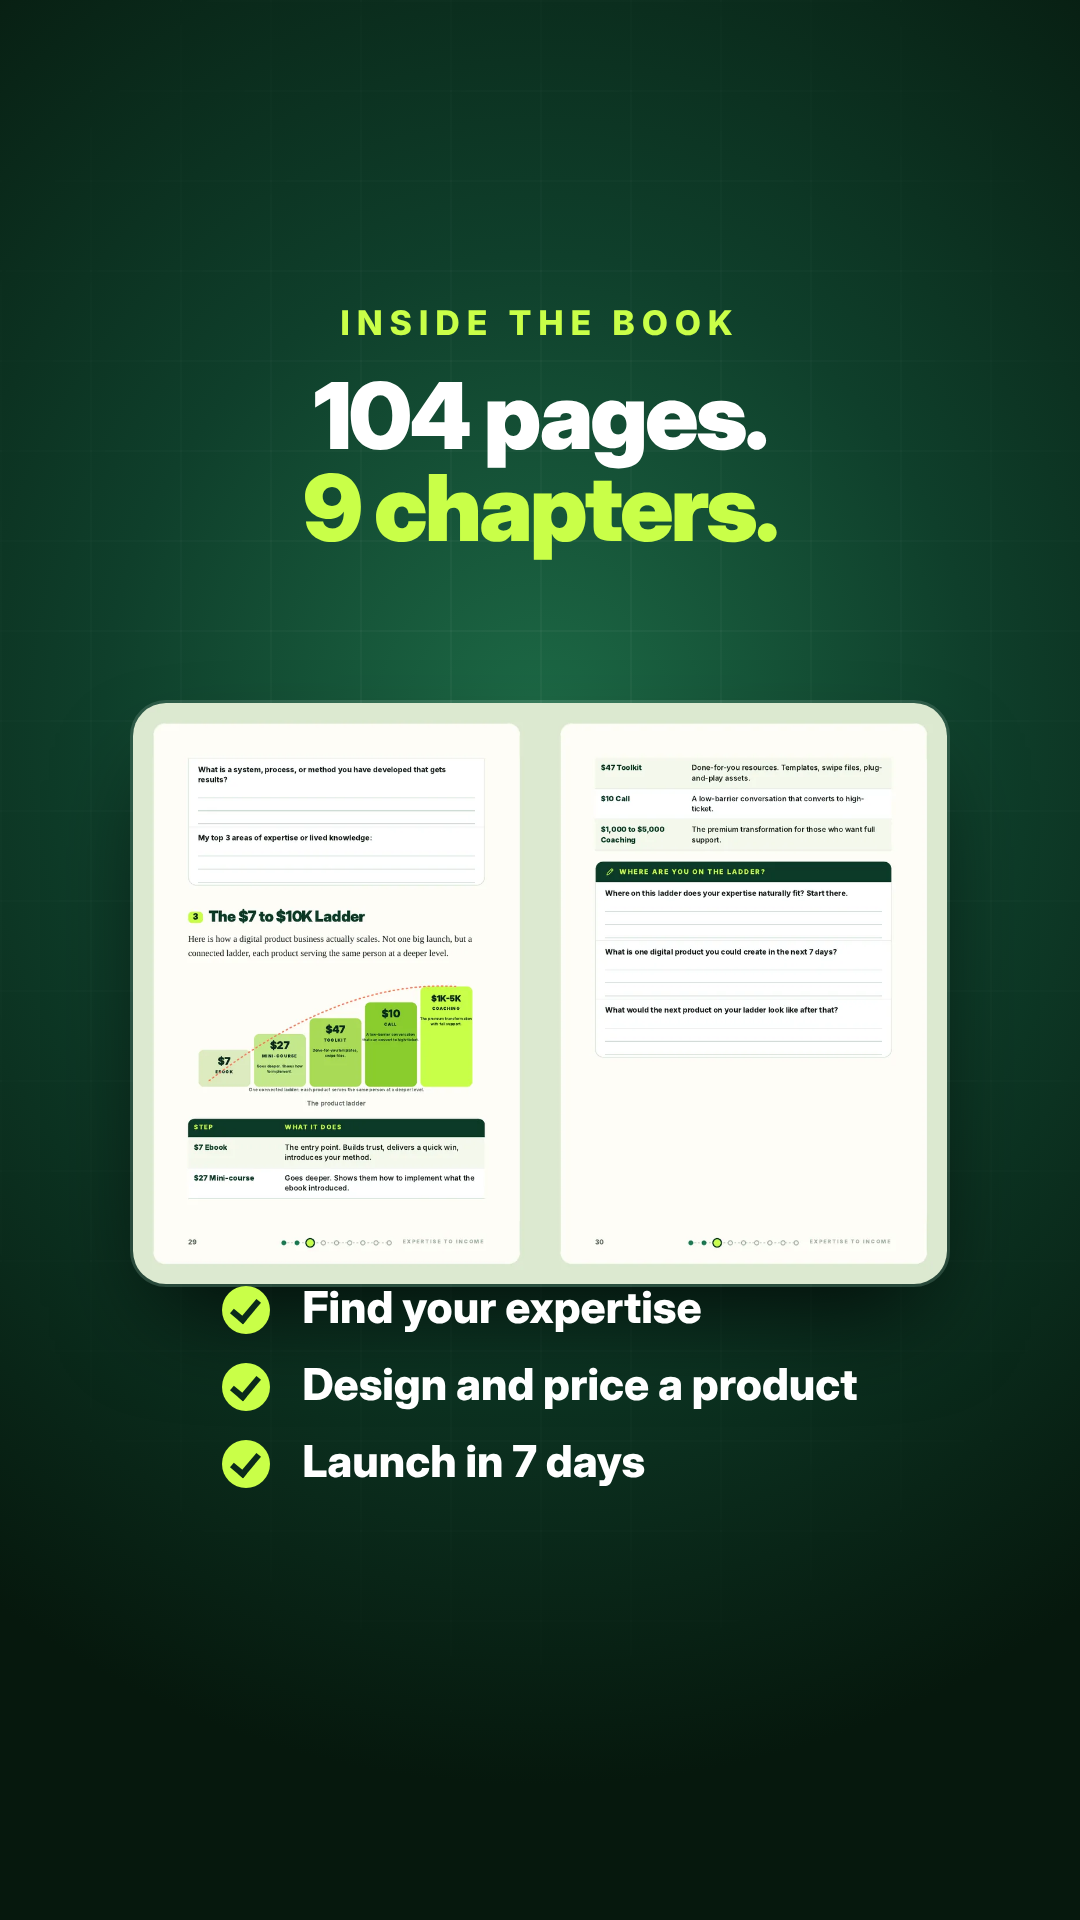
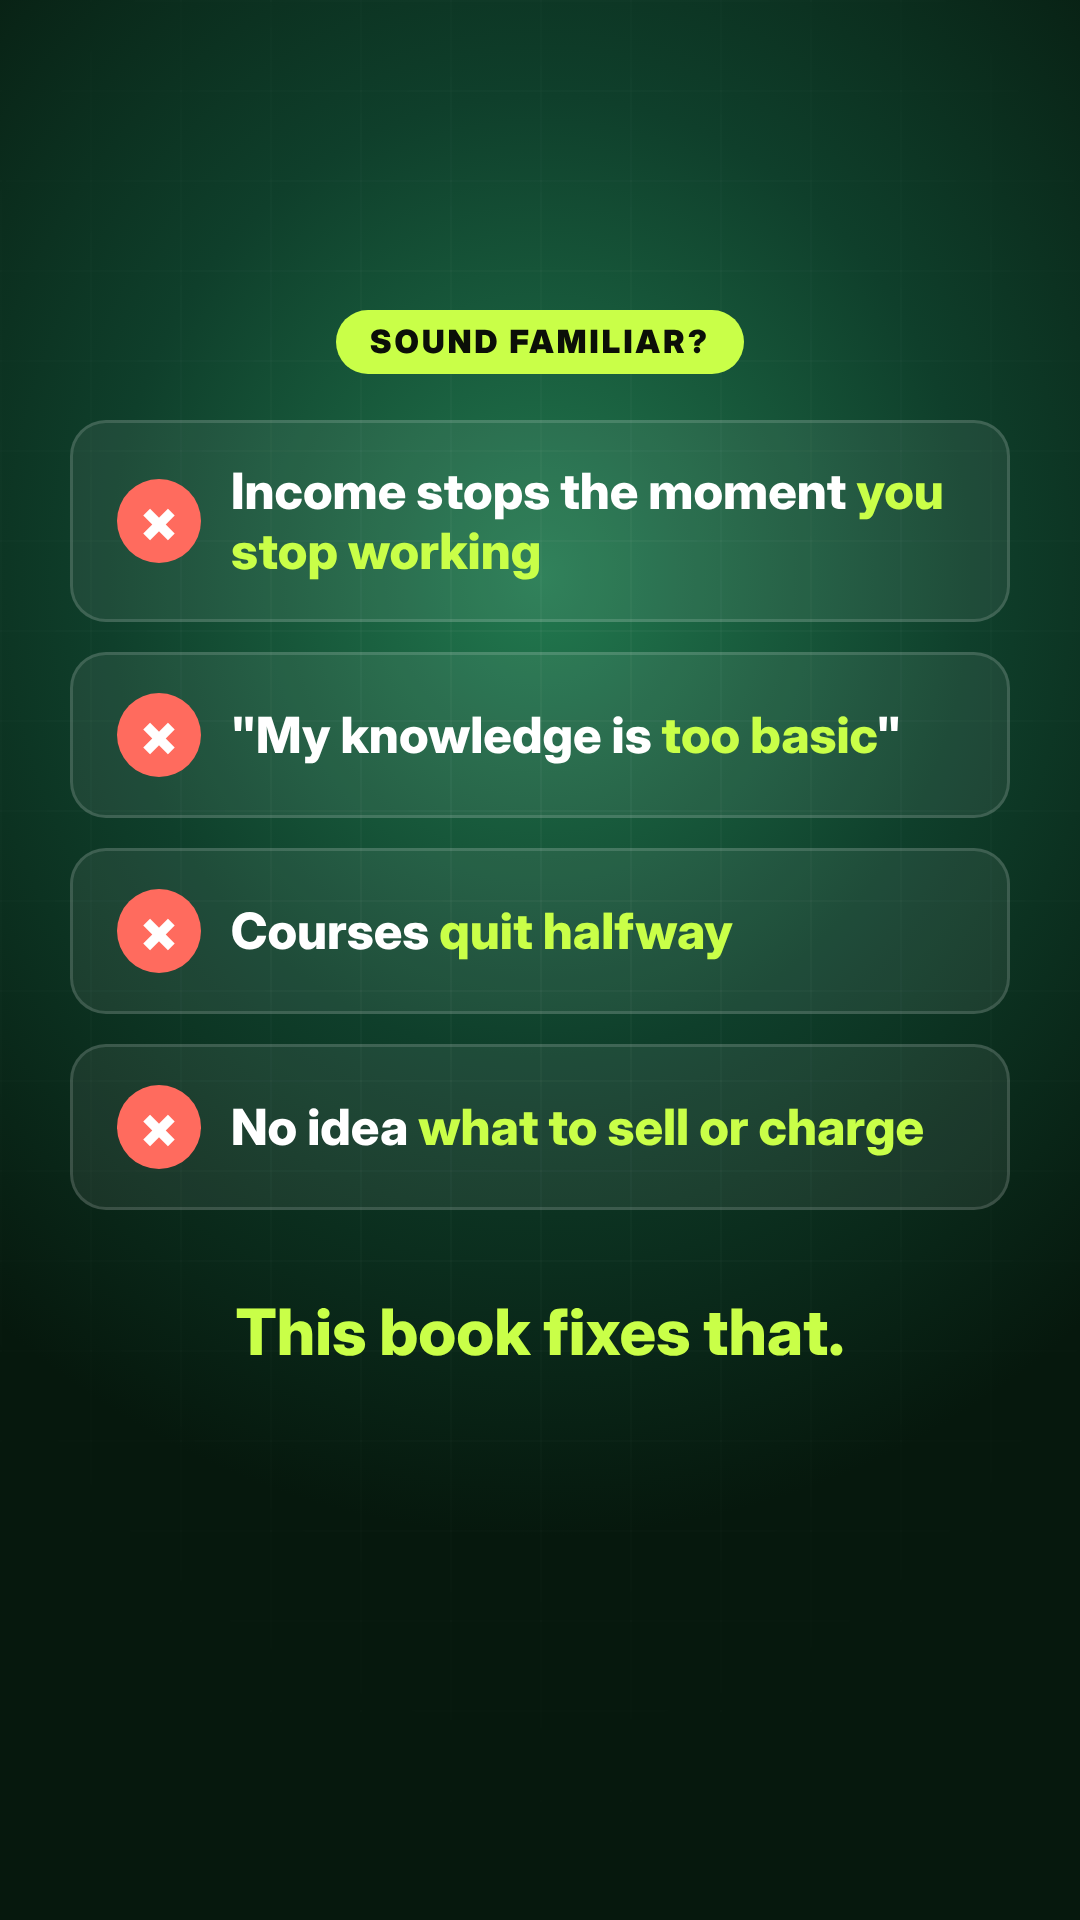
Redesign Instagram story set to 4 engagement-focused frames
Claude-Session: https://claude.ai/code/session_01SMwyRKLnuspAhGVn636tUi

diff --git a/scripts/audit-visuals/story.html b/scripts/audit-visuals/story.html
@@ -1,41 +1,71 @@
 <!doctype html><html><head><meta charset="utf-8"><style>
 *{box-sizing:border-box;margin:0;padding:0}
-html,body{width:1080px;height:1920px;overflow:hidden;background:#07200F;font-family:Inter,sans-serif;color:#fff}
-.s{position:relative;width:1080px;height:1920px;overflow:hidden;background:radial-gradient(90% 55% at 50% 38%,#1D6A46 0%,#0F3F2B 45%,#06180D 100%)}
-.grid{position:absolute;inset:0;background-image:linear-gradient(rgba(255,255,255,.04) 2px,transparent 2px),linear-gradient(90deg,rgba(255,255,255,.04) 2px,transparent 2px);background-size:90px 90px;-webkit-mask-image:radial-gradient(70% 55% at 50% 40%,#000,transparent);mask-image:radial-gradient(70% 55% at 50% 40%,#000,transparent)}
-.pill{display:inline-block;padding:16px 34px;border-radius:999px;background:#C9FF48;color:#0B0F08;font:900 34px/1 'Inter Display';letter-spacing:.06em}
-.c{position:absolute;left:70px;right:70px;text-align:center}
-h1{font:900 118px/1 'Inter Display';letter-spacing:-.03em}h1 span{color:#C9FF48}
-.sub{font:600 40px/1.35 Inter;color:#CFE9D6}
-.book{position:absolute;left:50%;transform:translateX(-50%)}
-.chip{display:inline-block;padding:18px 34px;margin:6px;border-radius:999px;border:3px solid rgba(201,255,72,.55);font:800 34px/1 Inter;color:#fff;background:rgba(7,24,13,.6)}
-.chip b{color:#C9FF48}
-ul.l li{font-size:44px;margin-bottom:22px}ul{list-style:none;text-align:left;display:inline-block}li{font:800 50px/1.25 'Inter Display';margin:0 0 30px;padding-left:80px;position:relative}
-li::before{content:'';position:absolute;left:0;top:6px;width:48px;height:48px;border-radius:24px;background:#C9FF48}
-li::after{content:'';position:absolute;left:15px;top:14px;width:11px;height:22px;border:solid #0A2A1B;border-width:0 6px 6px 0;transform:rotate(40deg)}
-.card{position:absolute;left:60px;right:60px;border-radius:36px;overflow:hidden;box-shadow:0 50px 100px -30px rgba(0,0,0,.8);border:3px solid rgba(255,255,255,.12)}
+html,body{width:1080px;background:#06180D;font-family:Inter,sans-serif;color:#fff}
+.s{position:relative;width:1080px;height:1920px;overflow:hidden;background:radial-gradient(80% 50% at 50% 30%,#22794F 0%,#0F3F2B 50%,#06180D 100%)}
+.s::before{content:'';position:absolute;inset:0;background-image:linear-gradient(rgba(255,255,255,.035) 2px,transparent 2px),linear-gradient(90deg,rgba(255,255,255,.035) 2px,transparent 2px);background-size:90px 90px;-webkit-mask-image:radial-gradient(75% 60% at 50% 40%,#000,transparent);mask-image:radial-gradient(75% 60% at 50% 40%,#000,transparent)}
+.glow{position:absolute;left:50%;width:900px;height:900px;margin-left:-450px;border-radius:50%;background:radial-gradient(circle,rgba(201,255,72,.38),transparent 62%);filter:blur(10px)}
+.a{position:absolute;left:70px;right:70px;text-align:center}
+.pill{display:inline-block;padding:16px 34px;border-radius:999px;background:#C9FF48;color:#0B0F08;font:900 32px/1 'Inter Display';letter-spacing:.1em}
+h1{font:900 124px/.98 'Inter Display';letter-spacing:-.035em}
+h1 em{font-style:normal;color:#C9FF48}
+.sub{font:600 44px/1.3 Inter;color:#D6EEDD}
+.sub b{color:#fff;font-weight:800}
+.book{position:absolute;left:50%;filter:drop-shadow(0 60px 60px rgba(0,0,0,.65))}
+.tap{display:inline-flex;align-items:center;gap:16px;padding:20px 40px;border-radius:999px;border:3px solid rgba(255,255,255,.35);font:800 34px/1 Inter;color:#fff;background:rgba(6,24,13,.55)}
+.tap i{font-style:normal;color:#C9FF48;font-size:44px;line-height:.8}
+.pain{display:flex;align-items:center;gap:30px;text-align:left;margin:0 0 30px;padding:38px 44px;border-radius:36px;background:rgba(255,255,255,.07);border:3px solid rgba(255,255,255,.14);font:800 50px/1.2 'Inter Display'}
+.pain .x{flex:none;width:84px;height:84px;border-radius:50%;background:#FF6B5E;color:#fff;font:900 56px/84px 'Inter Display';text-align:center}
+.pain q{quotes:none;color:#C9FF48}
+.card{position:absolute;left:110px;right:110px;border-radius:34px;overflow:hidden;border:3px solid rgba(255,255,255,.2);box-shadow:0 60px 110px -30px rgba(0,0,0,.85),0 0 0 14px rgba(201,255,72,.08)}
 .card img{width:100%;display:block}
-.arrow{font:900 120px/1 'Inter Display';color:#C9FF48}
+.step{display:flex;align-items:center;gap:28px;text-align:left;margin:0 0 16px;padding:22px 40px;border-radius:999px;background:#C9FF48;color:#0A2A1B;font:900 46px/1 'Inter Display'}
+.step span{flex:none;width:68px;height:68px;border-radius:50%;background:#0A2A1B;color:#C9FF48;font:900 40px/68px 'Inter Display';text-align:center}
+.price{font:900 250px/.9 'Inter Display';letter-spacing:-.05em;color:#C9FF48;text-shadow:0 0 90px rgba(201,255,72,.55)}
+.chip{display:inline-block;padding:20px 36px;margin:7px;border-radius:999px;border:3px solid rgba(201,255,72,.6);font:800 36px/1 Inter;background:rgba(6,24,13,.6)}
+.chip b{color:#C9FF48}
+.arrow{font:900 150px/1 'Inter Display';color:#C9FF48;text-shadow:0 0 60px rgba(201,255,72,.6)}
 </style></head><body>
-<!-- FRAME 1: hook. Content lives between y=300 and y=1500 (clear of Instagram's top and bottom UI). -->
-<div class="s" id="f1"><div class="grid"></div>
-  <div class="c" style="top:300px"><span class="pill">OUT NOW</span></div>
-  <div class="c" style="top:400px"><h1>Our book<br>is <span>live.</span></h1></div>
-  <img class="book" src="../../public/images/book/book-3d.webp" style="top:770px;width:560px">
-  <div class="c" style="top:1400px"><div class="sub"><b style="color:#fff;font-weight:800">Expertise to Income</b><br>Turn what you know into income.</div></div>
+
+<!-- 1 HOOK -->
+<div class="s" id="f1">
+  <div class="glow" style="top:640px"></div>
+  <div class="a" style="top:310px"><h1>You know<br>more than<br><em>you think.</em></h1></div>
+  <img class="book" src="../../public/images/book/book-3d.webp" style="top:790px;width:460px;margin-left:-230px;transform:rotate(-5deg)">
+  <div class="a" style="top:1400px"><div class="sub"><b>Someone will pay for it.</b></div></div>
+  <div class="a" style="top:1490px"><span class="tap">Our book is live <i>&rsaquo;</i></span></div>
 </div>
-<!-- FRAME 2: inside the book -->
-<div class="s" id="f2"><div class="grid"></div>
-  <div class="c" style="top:300px"><div class="sub" style="color:#C9FF48;letter-spacing:.2em;font-weight:800;font-size:34px">INSIDE THE BOOK</div></div>
-  <div class="c" style="top:370px"><h1 style="font-size:92px">104 pages.<br><span>9 chapters.</span></h1></div>
-  <div class="card" style="top:700px;left:130px;right:130px"><img src="../../public/images/book/flip-29.webp"></div>
-  <div class="c" style="top:1280px"><ul class="l"><li>Find your expertise</li><li>Design and price a product</li><li>Launch in 7 days</li></ul></div>
+
+<!-- 2 PAIN -->
+<div class="s" id="f2">
+  <div class="a" style="top:310px"><span class="pill">SOUND FAMILIAR?</span></div>
+  <div class="a" style="top:420px;text-align:left">
+    <div class="pain"><div class="x">&times;</div><div>Income stops the moment <q>you stop working</q></div></div>
+    <div class="pain"><div class="x">&times;</div><div>"My knowledge is <q>too basic</q>"</div></div>
+    <div class="pain"><div class="x">&times;</div><div>Courses <q>quit halfway</q></div></div>
+    <div class="pain"><div class="x">&times;</div><div>No idea <q>what to sell or charge</q></div></div>
+  </div>
+  <div class="a" style="top:1290px"><div class="sub" style="font-size:64px;font-family:Inter Display;font-weight:900"><b style="color:#C9FF48">This book fixes that.</b></div></div>
 </div>
-<!-- FRAME 3: the offer + CTA. The link sticker goes in the empty zone at y 1290-1560. -->
-<div class="s" id="f3"><div class="grid"></div>
-  <img class="book" src="../../public/images/book/book-3d.webp" style="top:290px;width:420px">
-  <div class="c" style="top:800px"><h1 style="font-size:104px"><span>$4.99.</span><br>Instant PDF.</h1></div>
-  <div class="c" style="top:1130px"><span class="chip"><b>365-day</b> money-back guarantee</span><span class="chip">Free Chapter 1 on the page</span></div>
-  <div class="c" style="top:1300px"><div class="arrow">&#8595;</div><div class="sub" style="font-weight:800;color:#fff;font-size:46px">Tap the link</div></div>
+
+<!-- 3 INSIDE -->
+<div class="s" id="f3">
+  <div class="glow" style="top:500px"></div>
+  <div class="a" style="top:310px"><h1 style="font-size:96px">9 chapters.<br><em>One first product.</em></h1></div>
+  <div class="card" style="top:620px;left:190px;right:190px;transform:rotate(-2deg)"><img src="../../public/images/book/flip-29.webp"></div>
+  <div class="a" style="top:1150px;text-align:left;left:110px;right:110px">
+    <div class="step"><span>1</span>Find what you know</div>
+    <div class="step"><span>2</span>Design and price it</div>
+    <div class="step"><span>3</span>Launch in 7 days</div>
+  </div>
+</div>
+
+<!-- 4 OFFER -->
+<div class="s" id="f4">
+  <div class="glow" style="top:300px"></div>
+  <img class="book" src="../../public/images/book/book-3d.webp" style="top:290px;width:380px;margin-left:-190px;transform:rotate(4deg)">
+  <div class="a" style="top:760px"><div class="price">$4.99</div></div>
+  <div class="a" style="top:1010px"><div class="sub" style="font-size:52px"><b>Instant PDF. 104 pages.</b></div></div>
+  <div class="a" style="top:1120px"><span class="chip"><b>365-day</b> money-back guarantee</span><br><span class="chip">Read Chapter 1 free first</span></div>
+  <div class="a" style="top:1320px"><div class="arrow">&darr;</div><div class="sub" style="font-size:54px"><b>Tap the link</b></div></div>
 </div>
 </body></html>
